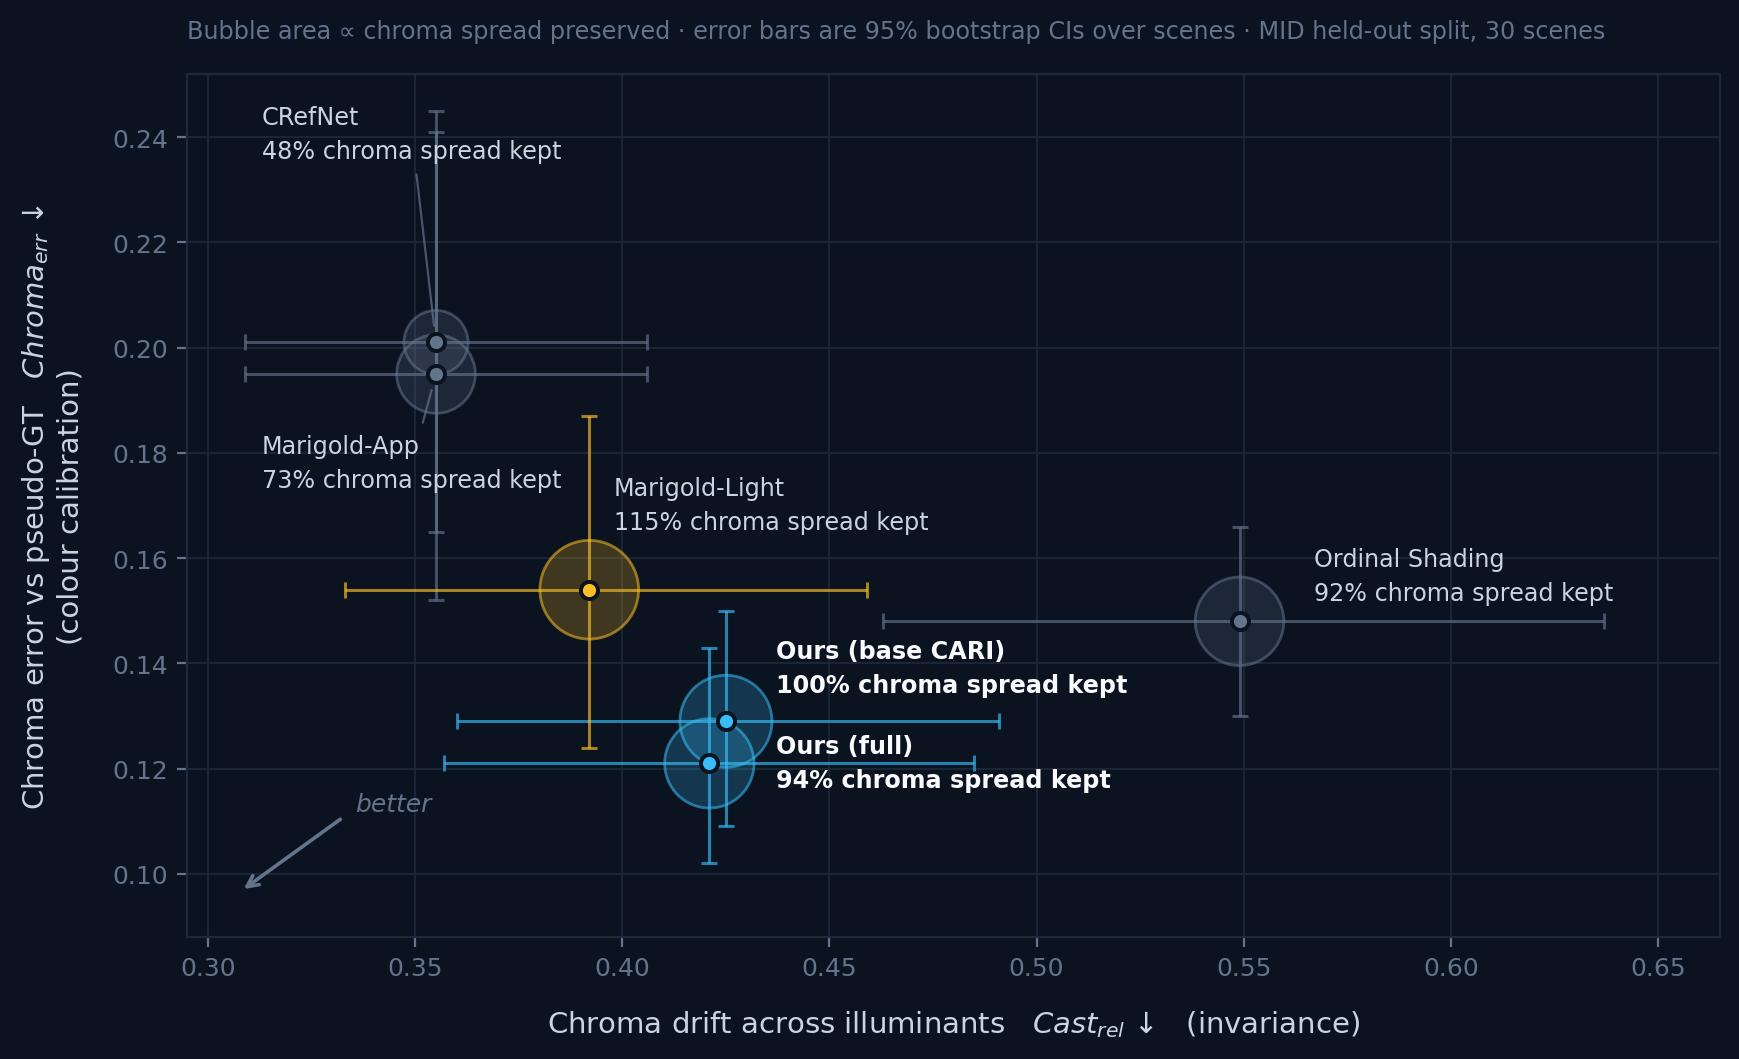
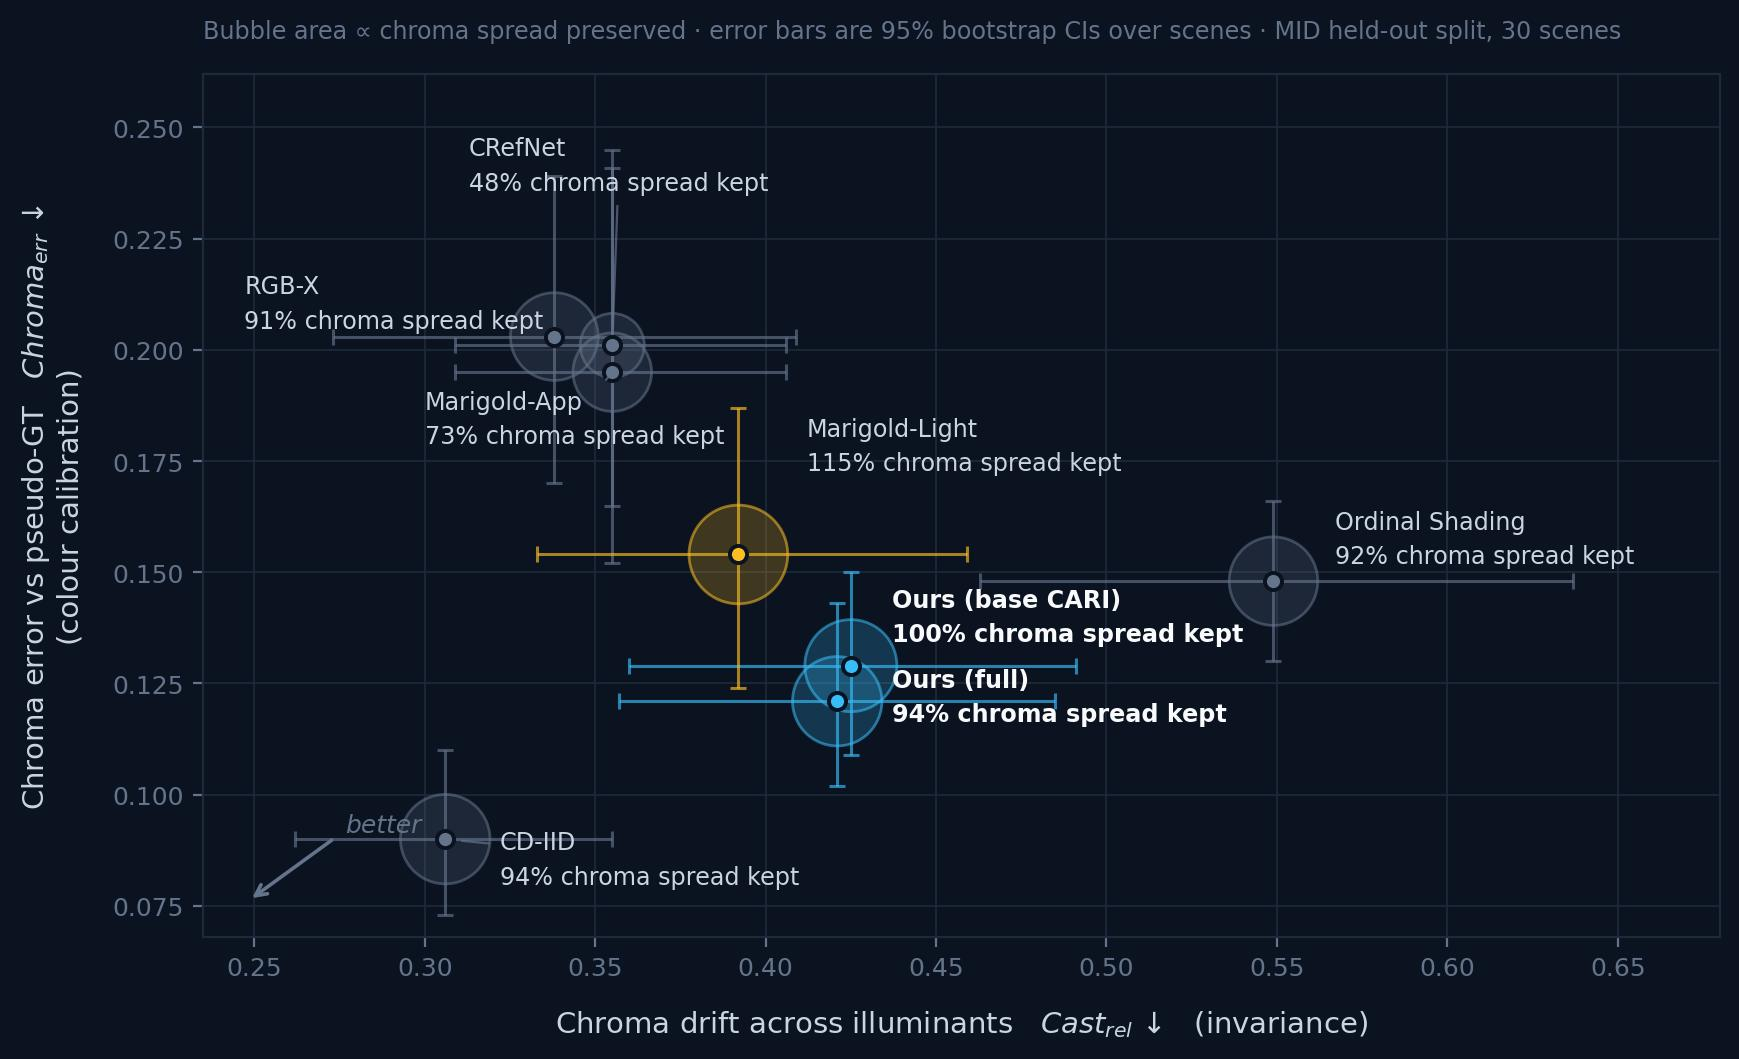
Add CD-IID and RGB->X, and narrow the claim to what survives
Two baselines with public weights were run locally through the same harness
at the same 1280px cap: the full five-stage CD-IID cascade (the direct rival,
previously excluded because only its Ordinal stage was integrated) and RGB->X.

CD-IID beats us significantly on both colour axes -- Chroma_err 0.090 vs
0.121, Cast_rel 0.306 vs 0.421 -- so the page no longer claims best colour
calibration. Crucially it does that WITHOUT collapsing chroma (Chroma_fid
0.944 vs our 0.941, not separable), so the desaturation argument that explains
CRefNet and Marigold-App does not generalise, and the page now says so.

What survives is lightness stability (C_mat 0.130, best in table, separable
from every row but RGB->X) at 18.5M trained parameters against CD-IID's
442.8M.

RGB->X pays for itself in a second way: it keeps chroma spread (0.907) yet has
the worst Chroma_err (0.203). With CRefNet's collapse and CD-IID's good-at-both,
that is three distinct failure modes on one benchmark -- direct evidence that
Chroma_fid and Chroma_err must both be reported, which had only been argued on
principle.

diff --git a/research/cari/index.html b/research/cari/index.html
@@ -740,7 +740,8 @@
         throughout this literature pools albedo chromaticity <strong>across materials</strong> before
         taking its variance, so a model improves its score by washing colour out of its prediction.
         We separate invariance from fidelity, and the correction reverses the ranking of our own
-        ablation.
+        ablation. Under the repaired metrics our model leads lightness stability while training
+        24× fewer parameters than the strongest baseline, and does not lead the colour axes.
       </p>
 
       <h3 class="contrib-heading">Contributions</h3>
@@ -765,9 +766,10 @@
         <li>
           <strong>An evaluation that scores both axes at once.</strong>
           Judged on stability alone, the most desaturated model wins; judged on accuracy alone,
-          cross-light drift is invisible. Scoring both together on four benchmarks shows where
-          the real trade-off sits — our model gives up some invariance to keep 94% of the
-          reference colour, while the two methods that lead invariance keep 48% and 73%.
+          cross-light drift is invisible. Running eight methods through one harness turns up
+          three distinct failure modes — stable-but-colourless, colourful-but-miscalibrated,
+          and good-at-both — which a single fidelity score would collapse into one number.
+          That is the measurement that the split was necessary, not just reasonable.
         </li>
       </ol>
     </section>
@@ -1005,8 +1007,10 @@
         <img src="../../images/research/cari-chroma-fidelity.jpg"
              alt="Albedo predictions from several methods on the same scene, showing that the most numerically constant ones are visibly the most desaturated.">
         <p class="fig-caption">
-          <strong>The collapse is visible.</strong> Methods that score best on pooled invariance are the
-          ones whose material colours have drained away.
+          <strong>When the collapse happens, it is visible.</strong> CRefNet and the colour-path-off
+          ablation score well on pooled invariance with visibly drained material colour. This is a
+          real failure mode, but not the only route to invariance — CD-IID reaches the lowest drift
+          in the table while keeping its colour.
         </p>
       </div>
     </section>
@@ -1040,8 +1044,8 @@
           <tbody>
             <tr class="row-ours">
               <td>Ours (full)</td>
-              <td class="best">0.130<span class="ci">[.117–.144]</span></td>
-              <td class="best">0.121<span class="ci">[.102–.143]</span></td>
+              <td>0.130<span class="ci">[.117–.144]</span></td>
+              <td>0.121<span class="ci">[.102–.143]</span></td>
               <td>0.421<span class="ci">[.357–.485]</span></td>
               <td>0.941</td>
             </tr>
@@ -1053,17 +1057,31 @@
               <td class="best">0.999</td>
             </tr>
             <tr>
+              <td>CD-IID</td>
+              <td>0.190<span class="ci">[.172–.210]</span></td>
+              <td class="best">0.090<span class="ci">[.073–.110]</span></td>
+              <td class="best">0.306<span class="ci">[.262–.355]</span></td>
+              <td>0.944</td>
+            </tr>
+            <tr>
+              <td>RGB→X</td>
+              <td class="best">0.128<span class="ci">[.115–.141]</span></td>
+              <td>0.203<span class="ci">[.170–.239]</span></td>
+              <td>0.338<span class="ci">[.273–.409]</span></td>
+              <td>0.907</td>
+            </tr>
+            <tr>
               <td>CRefNet</td>
               <td>0.151<span class="ci">[.138–.164]</span></td>
               <td>0.201<span class="ci">[.165–.241]</span></td>
-              <td class="best">0.355<span class="ci">[.309–.406]</span></td>
+              <td>0.355<span class="ci">[.309–.406]</span></td>
               <td class="dim">0.484</td>
             </tr>
             <tr>
               <td>Marigold-App</td>
               <td>0.193<span class="ci">[.173–.214]</span></td>
               <td>0.195<span class="ci">[.152–.245]</span></td>
-              <td class="best">0.355<span class="ci">[.309–.406]</span></td>
+              <td>0.355<span class="ci">[.309–.406]</span></td>
               <td class="dim">0.728</td>
             </tr>
             <tr>
@@ -1099,15 +1117,18 @@
       </div>
 
       <div class="caveat-box">
-        <strong>Read the two columns together — that is the whole point.</strong>
-        We do <em>not</em> win invariance, and we should not claim to: CRefNet and Marigold-App reach
-        a lower Cast<sub>rel</sub> than we do (0.355 vs 0.421). But they get there while retaining
-        48% and 73% of the reference chroma spread, so their albedo is substantially greyer than the
-        scene actually is — a prediction cannot drift in a colour dimension it has already thrown
-        away. Our model has the <strong>best colour calibration</strong> (Chroma<sub>err</sub>
-        0.121, every external method significantly worse under the paired test) and the
-        <strong>best lightness stability</strong> (C<sub>mat</sub> 0.130), while keeping 94% of the
-        reference chroma spread. That conjunction — not any single column — is the result.
+        <strong>We lead one axis, and we should say only that.</strong>
+        On <strong>lightness stability</strong> our model is best in the table
+        (C<sub>mat</sub> 0.130), significantly better than every baseline except RGB→X,
+        from which it is not separable. We do <em>not</em> lead the two colour columns:
+        CD-IID reaches both a lower Chroma<sub>err</sub> (0.090 vs 0.121) and a lower
+        Cast<sub>rel</sub> (0.306 vs 0.421), and both gaps are significant under the paired
+        test. Note what CD-IID does <em>not</em> do: its Chroma<sub>fid</sub> is 0.944,
+        statistically indistinguishable from our 0.941 — so it is not buying invariance by
+        draining colour, and the collapse argument that explains CRefNet and Marigold-App
+        does not explain it. What makes the surviving claim worth stating is its price:
+        that lightness result comes from training <strong>18.5M</strong> parameters against
+        CD-IID's <strong>442.8M</strong>, at 0.148&nbsp;s per image against 0.254&nbsp;s.
       </div>
 
       <div class="cari-figure">
@@ -1119,9 +1140,25 @@
           difficulty and resolves what the marginal intervals above leave ambiguous. Our model
           beats <em>every</em> baseline on lightness stability and on colour calibration, with all
           eight intervals clear of zero. On hue invariance it loses to CRefNet and Marigold-App,
-          is statistically inseparable from Marigold-Light, and beats Ordinal Shading — so the
-          concession is to two methods, not to the field.
+          is statistically inseparable from Marigold-Light, and beats Ordinal Shading. On the
+          two colour axes CD-IID beats us significantly, which is the honest headline of this
+          figure.
         </p>
+      </div>
+
+      <div class="insight-box" style="margin-top:34px;">
+        <strong style="color:#c4b5fd;">Three failure modes, and why one fidelity number
+        cannot see them.</strong><br>
+        The eight rows contain three genuinely different behaviours.
+        <strong>CRefNet is stable but colourless</strong> — low drift, but
+        Chroma<sub>fid</sub> 0.484 because the colour is gone.
+        <strong>RGB→X is colourful but miscalibrated</strong> — it keeps the spread
+        (0.907) yet puts it on the wrong hues, giving the worst Chroma<sub>err</sub> in the
+        table (0.203). <strong>CD-IID is good at both.</strong>
+        The old pooled score would rank CRefNet well and say nothing about RGB→X's error;
+        Chroma<sub>fid</sub> alone would clear RGB→X and condemn CRefNet. Only the pair
+        separates all three. We argued for splitting these metrics on principle — these rows
+        are the measurement that it was necessary.
       </div>
 
       <div class="cari-figure">
